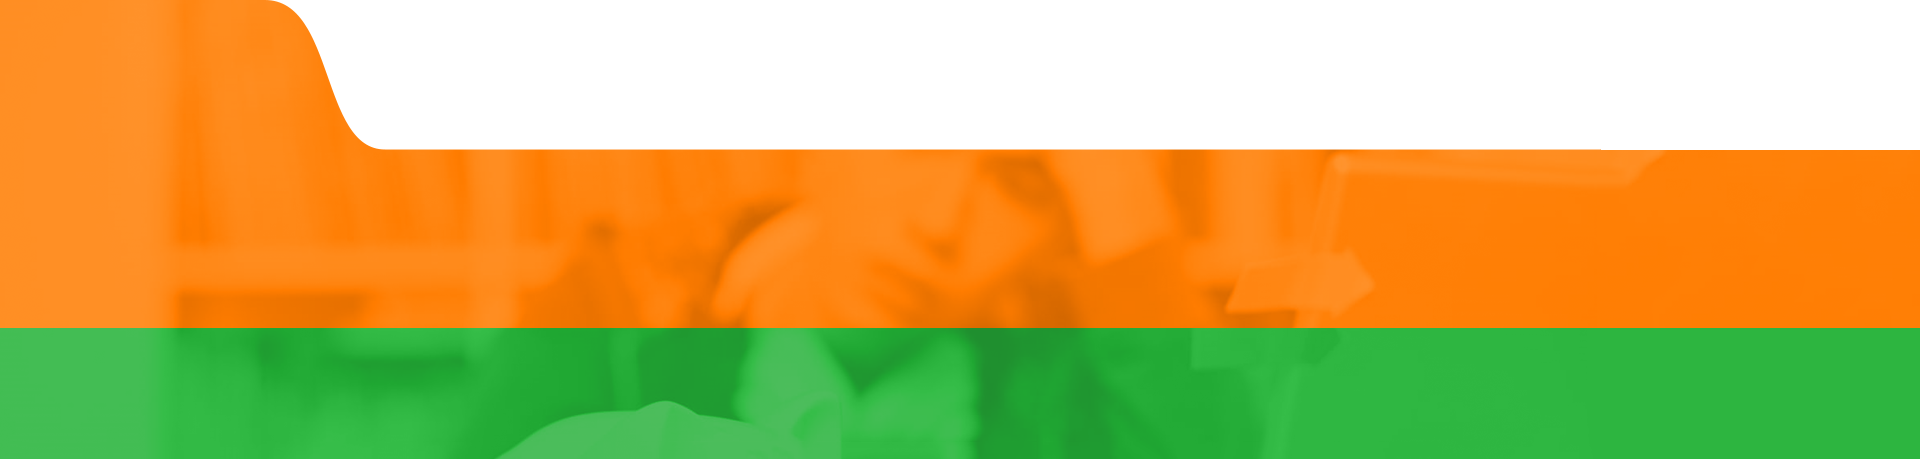
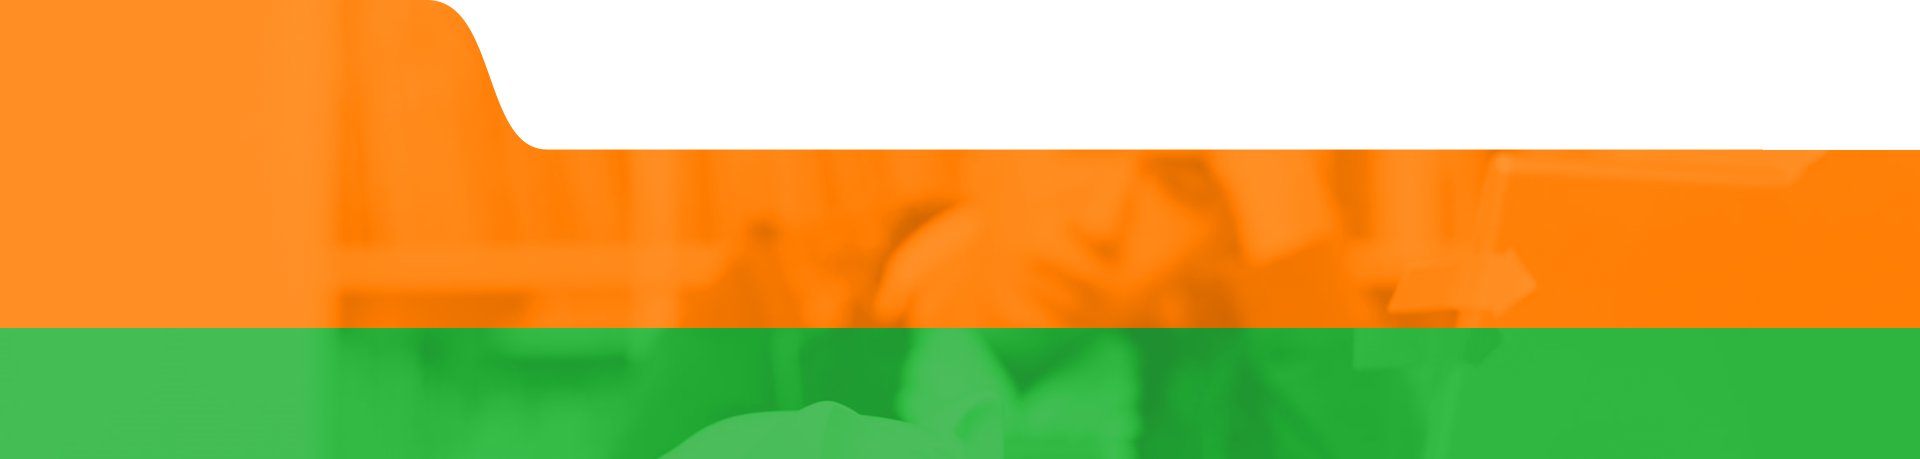
change bg position

diff --git a/src/assets/sass/blocks/_information.sass b/src/assets/sass/blocks/_information.sass
@@ -44,15 +44,15 @@
     padding-top: 15px
     padding-bottom: 0
 
-    &::before
-      z-index: 10
-      content: ''
-      position: absolute
-      left: 0px
-      top: -109px
-      width: 1192px
-      height: 433px
-      background: url('../images/bg-info-form-tablet.png') no-repeat
+    .bg
+      &::before
+        content: ''
+        position: absolute
+        left: -231px
+        top: -124px
+        width: 1200px
+        height: 433px
+        background: url('../images/bg-info-form-tablet.png') no-repeat
 
     &__info
       padding-bottom: 15px
@@ -61,14 +61,13 @@
 // widescreen from 1192px
 @media screen and (min-width: $widescreen)
   .information
-    &::before
-      content: ''
-      position: absolute
-      left: 0px
-      top: -161px
-      width: 1920px
-      height: 459px
-      background: url('../images/bg-info-form-desktop.png') no-repeat
+    .bg
+      &::before
+        left: -375px
+        top: -175px
+        width: 1920px
+        height: 459px
+        background: url('../images/bg-info-form-desktop.png') no-repeat
 
     &__info
       font-size: 1.125em
